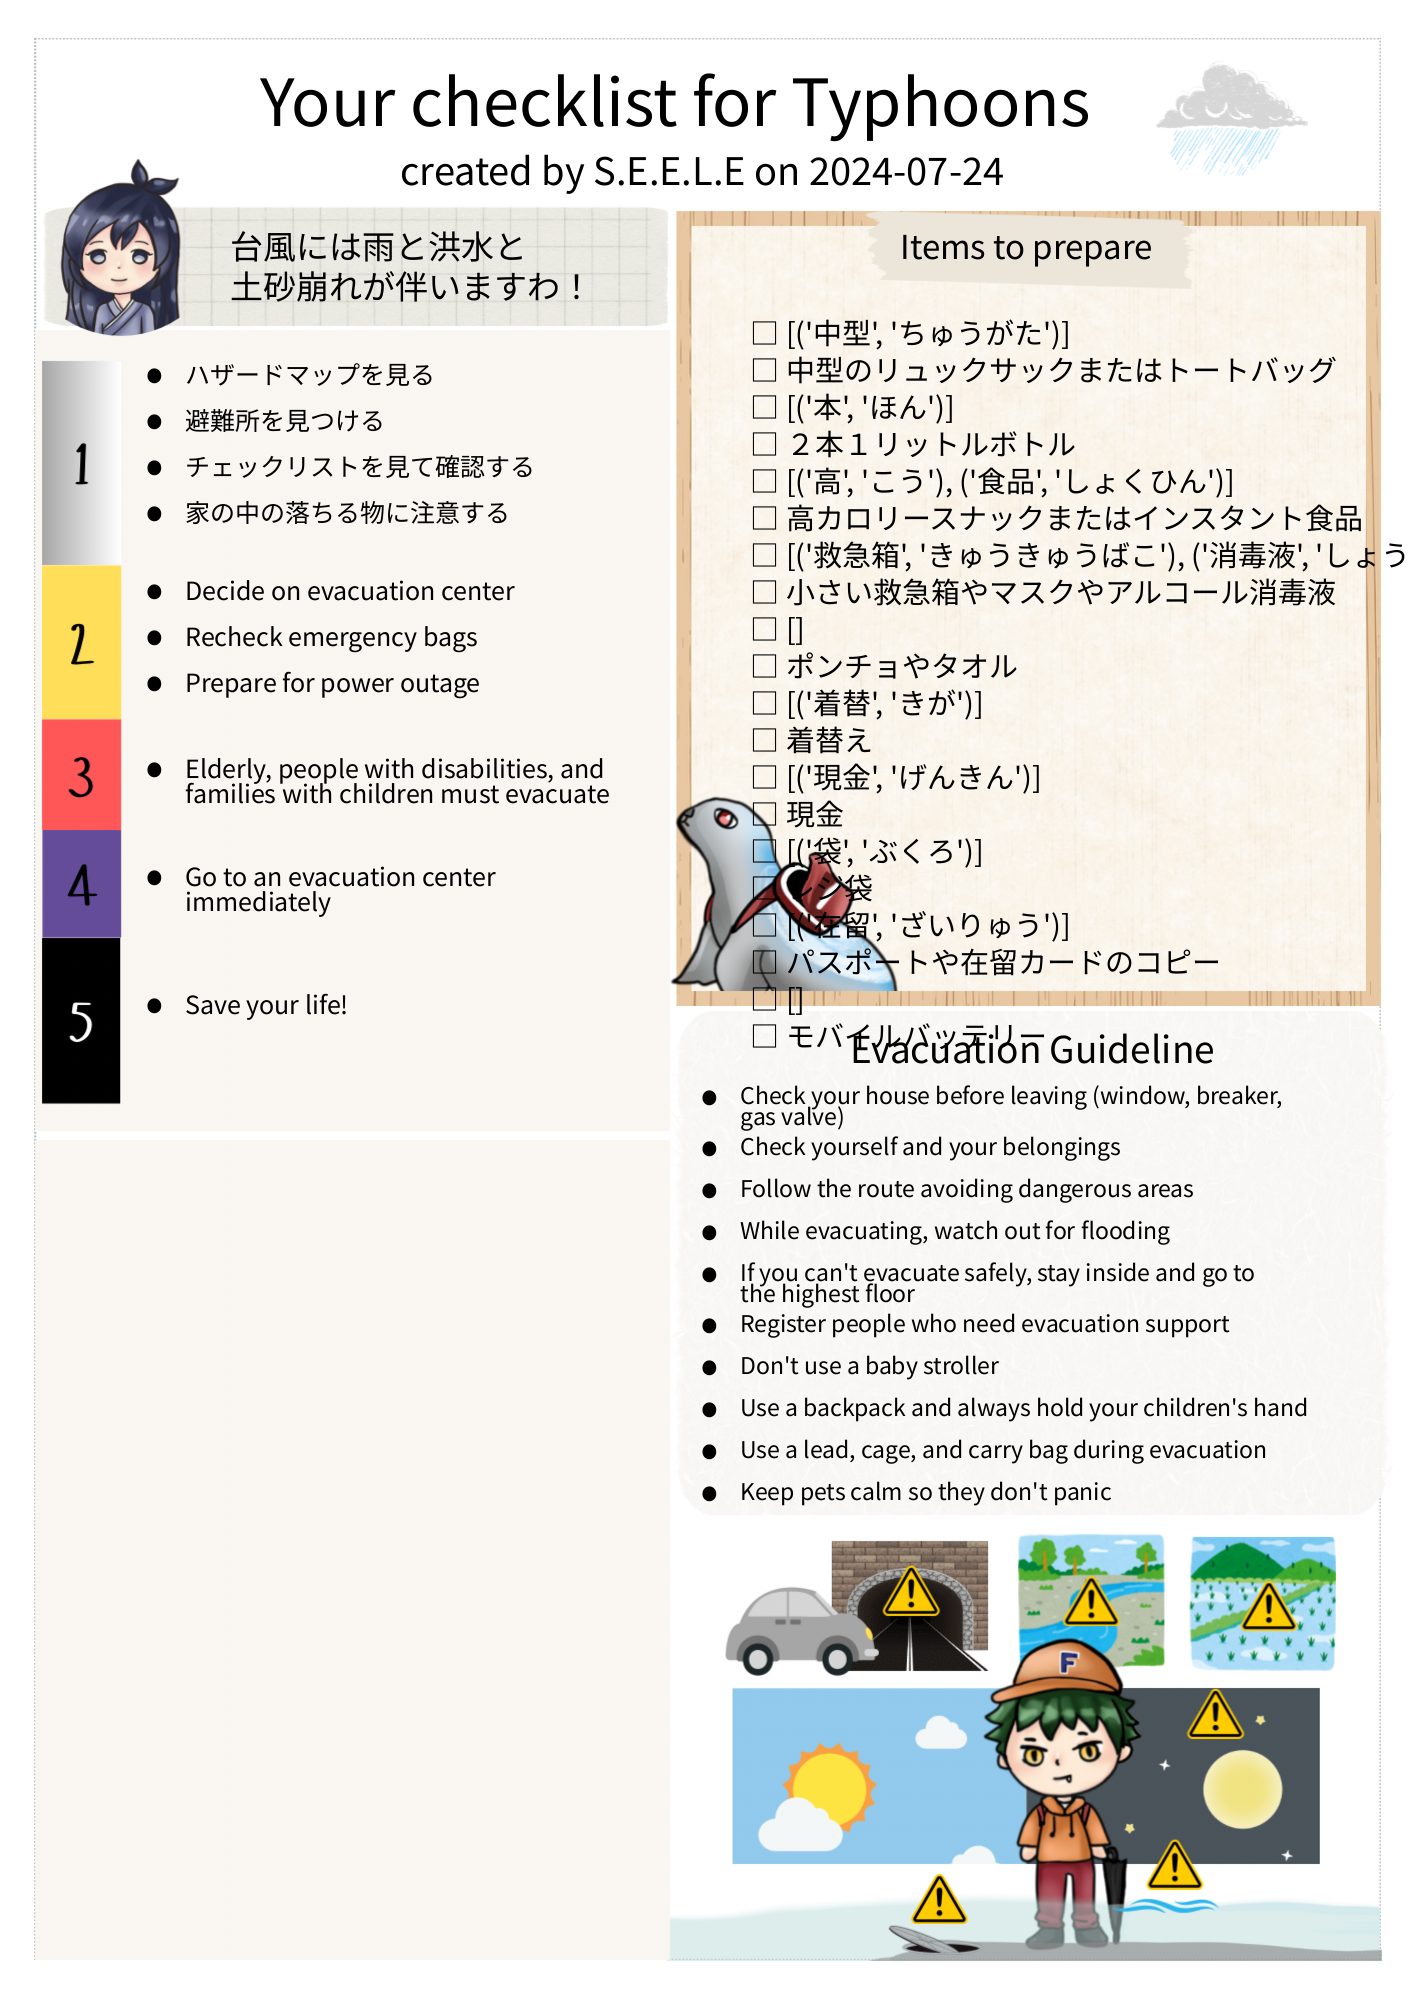
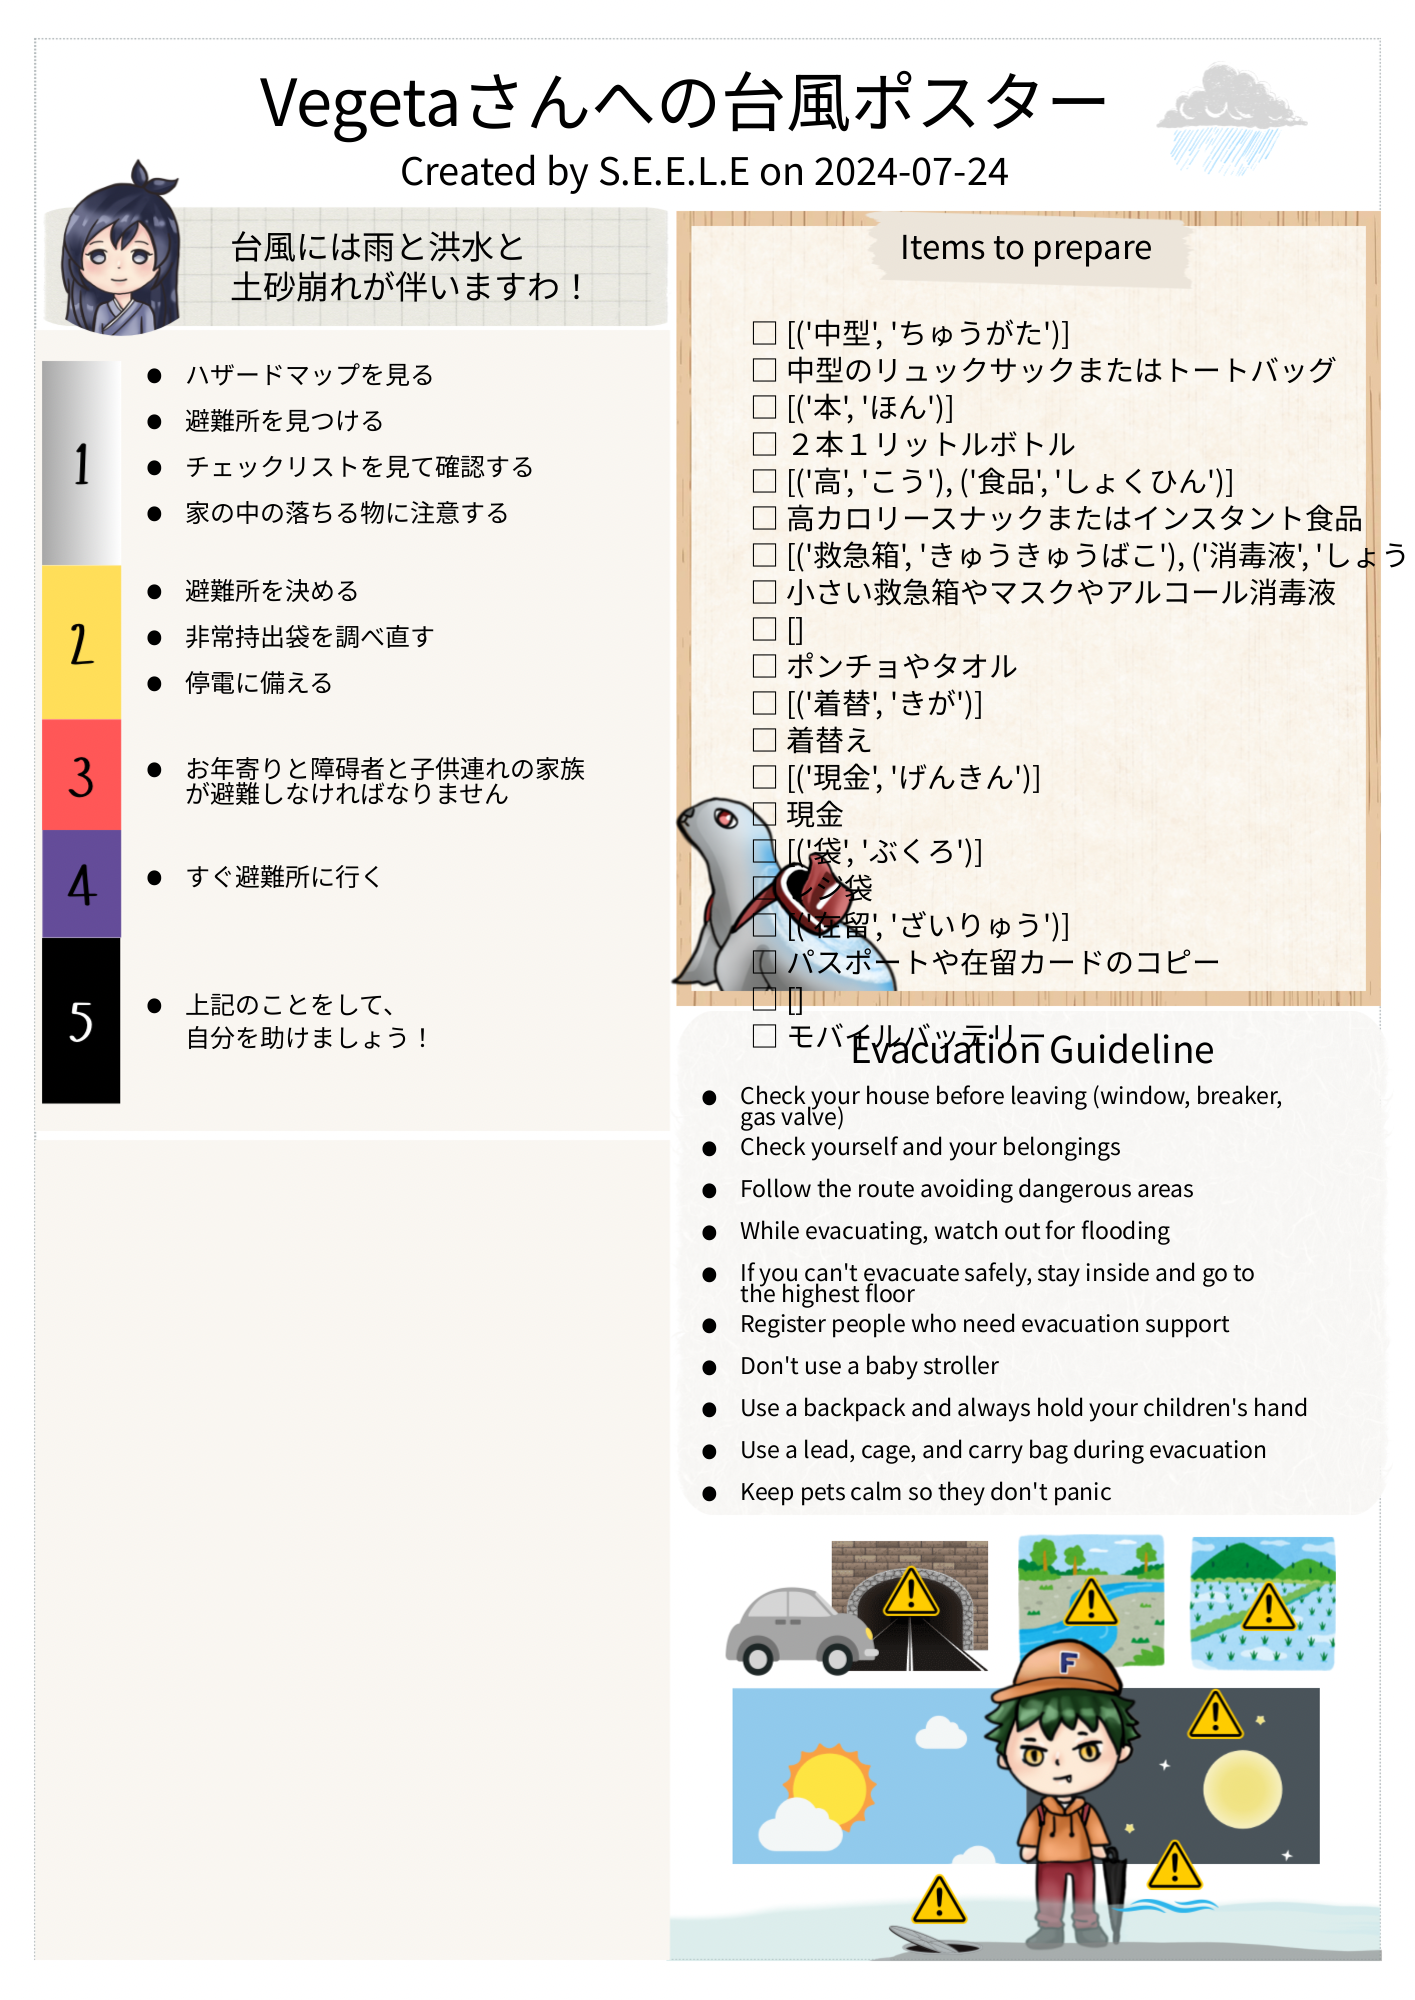
Altered poster title for language switch

diff --git a/website/utils.py b/website/utils.py
@@ -332,18 +332,25 @@ def checklist_image(checklist, disaster_type, user):
     tasks = []
     # Append the title to the appropriate text file
     with open(f"{disaster_type.lower()}_tts.txt", "w") as file:
-        file.write(gettext(f"Your checklist for {disaster_type}s\n"))
+        big_header = ""
+        if disaster_type == "Earthquake":
+            big_header = f"{user.name}さんへの地震ポスター\n" if get_language().startswith("jp") else "Your Poster for Earthquakes\n"
+        else:
+            big_header = f"{user.name}さんへの台風ポスター\n" if get_language().startswith("jp") else "Your Poster for Typhoons\n"
+        file.write(big_header)
         file.write("Items to prepare:\n")
         for item in checklist[gettext("Go Bag")]:
             file.write(f"{item}\n")
 
     if disaster_type == "Earthquake":
-        tasks.append((draw_text, (draw, gettext(f"Your checklist for {disaster_type}s"), fonts['title'], 190 * scale, 35 * scale)))
+        big_header = f"{user.name}さんへの地震ポスター" if get_language().startswith("jp") else "Your Poster for Earthquakes"
+        tasks.append((draw_text, (draw, gettext("Your Poster for Earthquakes"), fonts['title'], 190 * scale, 35 * scale)))
     
     else:
-        tasks.append((draw_text, (draw, gettext(f"Your checklist for {disaster_type}s"), fonts['title'], 260 * scale, 50 * scale)))
+        big_header = f"{user.name}さんへの台風ポスター" if get_language().startswith("jp") else "Your Poster for Typhoons"
+        tasks.append((draw_text, (draw, big_header, fonts['title'], 260 * scale, 50 * scale)))
 
-    tasks.append((draw_text, (draw, gettext(f"created by S.E.E.L.E on {datetime.now().date()}"), fonts['info'], 400 * scale, 140 * scale)))
+    tasks.append((draw_text, (draw, gettext(f"Created by S.E.E.L.E on {datetime.now().date()}"), fonts['info'], 400 * scale, 140 * scale)))
     tasks.append((draw_text, (draw, gettext("Items to prepare"), fonts['header'], 900 * scale, 220 * scale)))
 
     y = 310 * scale
